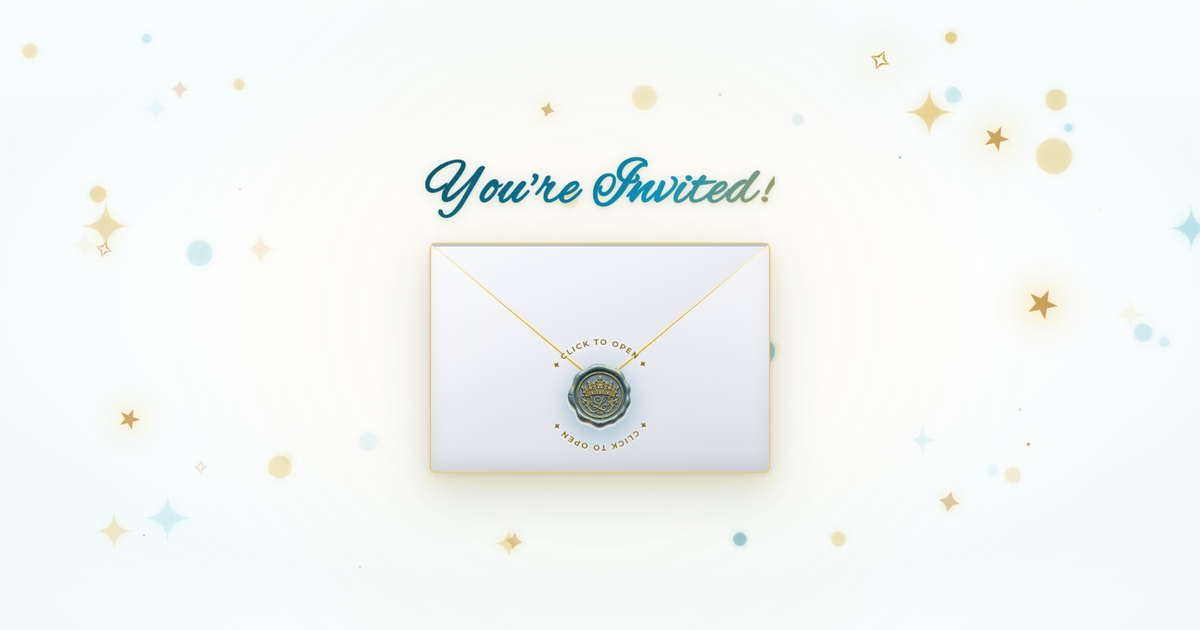
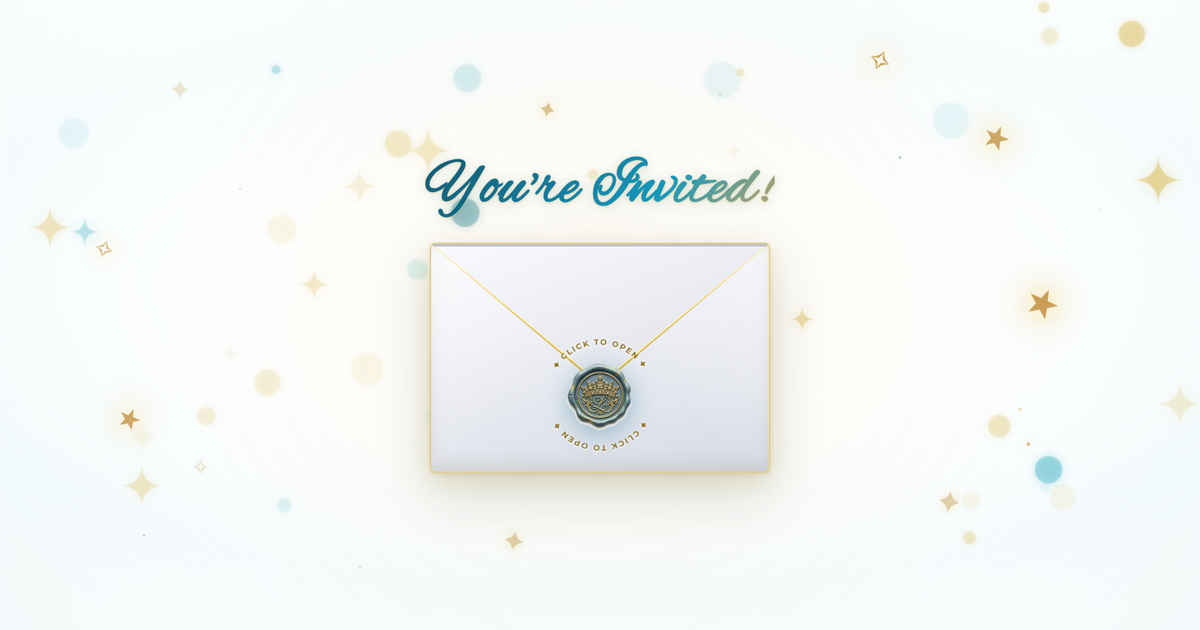
feat(alexadeharo): editorial venue restyle, safari bar tint, and confetti cleanup

diff --git a/alexadeharo/style.css b/alexadeharo/style.css
@@ -6421,3 +6421,104 @@ body.og-preview-mode .entry-lang-picker {
     font-size: 0.92rem;
   }
 }
+
+
+/* ══════════════════════════════════════════════════════════════
+   SAFARI BARS: one flat color at the page edges, no gradient behind them
+   ══════════════════════════════════════════════════════════════ */
+html,
+html.site-entered,
+html:not(.site-entered) {
+  background-color: #f1f9fb !important;
+  background-image: none !important;
+}
+
+body,
+body.site-entered,
+body:not(.site-entered) {
+  background-color: transparent !important;
+  background-image: none !important;
+}
+
+/* ══════════════════════════════════════════════════════════════
+   VENUES: EDITORIAL RESTYLE
+   ══════════════════════════════════════════════════════════════ */
+.venue-role-badge {
+  font-family: var(--font-script);
+  font-size: 1.75rem;
+  font-weight: 400;
+  letter-spacing: 0;
+  text-transform: none;
+  color: #006385;
+  line-height: 1;
+  margin-bottom: 0.35rem;
+}
+
+.venue-title {
+  font-family: var(--font-editorial-num);
+  font-size: 1.3rem;
+  font-weight: 700;
+  letter-spacing: 0.14em;
+  text-transform: uppercase;
+  line-height: 1.2;
+  color: var(--text-dark);
+  margin: 0.1rem 0 0.55rem;
+}
+
+.venue-address {
+  font-family: var(--font-editorial-num);
+  font-style: italic;
+  font-size: 1.08rem;
+  font-weight: 400;
+  letter-spacing: 0.01em;
+  text-transform: none;
+  line-height: 1.4;
+  color: #334155;
+  margin-bottom: 0.75rem;
+}
+
+/* time: pill becomes text between two gold hairlines, like the date box */
+.venue-time-tag {
+  background: none;
+  border: 0;
+  border-radius: 0;
+  border-top: 1px solid rgba(201, 159, 87, 0.75);
+  border-bottom: 1px solid rgba(201, 159, 87, 0.75);
+  padding: 0.35rem 0.5rem;
+  font-family: var(--font-editorial-num);
+  font-size: 1.05rem;
+  font-weight: 600;
+  letter-spacing: 0.06em;
+  text-transform: none;
+  color: #8c6f23;
+  margin-bottom: 0.85rem;
+}
+.venue-time-tag svg { display: none; }
+
+/* button becomes a quiet underlined link */
+.venue-elegant-map-btn {
+  background: none;
+  border: 0;
+  border-bottom: 1px solid #c99f57;
+  border-radius: 0;
+  box-shadow: none;
+  padding: 0 0 3px;
+  color: #006385 !important;
+  font-size: 0.62rem;
+  letter-spacing: 0.2em;
+}
+.venue-elegant-map-btn svg { display: none; }
+.venue-elegant-map-btn::after { content: "→"; margin-left: 0.4em; }
+.venue-elegant-map-btn:hover {
+  background: none;
+  box-shadow: none;
+  transform: none;
+  color: #8c6f23 !important;
+}
+
+@media (max-width: 480px) {
+  .venue-role-badge { font-size: 1.5rem; }
+  .venue-title { font-size: 0.98rem; letter-spacing: 0.09em; }
+  .venue-address { font-size: 0.98rem; }
+  .venue-time-tag { font-size: 0.95rem; padding: 0.3rem 0.3rem; }
+}

diff --git a/alexadeharo/index.html b/alexadeharo/index.html
@@ -4,6 +4,7 @@
 <head>
   <meta charset="UTF-8" />
   <meta name="viewport" content="width=device-width, initial-scale=1.0, viewport-fit=cover" />
+  <meta name="theme-color" content="#f1f9fb" />
   <title>Alexa S. Laco Deharo — Quinceañera</title>
   <meta name="title" content="Alexa S. Laco Deharo — Quinceañera" />
   <meta name="description"
@@ -43,7 +44,7 @@
     href="https://fonts.googleapis.com/css2?family=Alex+Brush&family=Cormorant+Garamond:ital,wght@0,400;0,500;0,600;0,700;1,400&family=Montserrat:wght@300;400;500;600;700&family=Playfair+Display:ital,wght@0,400;0,600;0,700;1,400&display=swap"
     rel="stylesheet">
 
-  <link rel="stylesheet" href="style.css?v=9.22.0" />
+  <link rel="stylesheet" href="style.css?v=9.23.0" />
 </head>
 
 <body>
@@ -530,7 +531,7 @@
         </div>
 
         <div class="venue-copy">
-          <span class="venue-role-badge" data-i18n="badge-ceremony">RELIGIOUS CEREMONY</span>
+          <span class="venue-role-badge" data-i18n="badge-ceremony">Religious Ceremony</span>
           <h3 class="venue-title">St. Serra Catholic Church</h3>
           <p class="venue-address">
             42121 60th St W<br />Lancaster, CA 93536
@@ -563,7 +564,7 @@
       <!-- 2. RECEPTION VENUE (MAP RIGHT) -->
       <div class="venue-stage venue-stage-reception scroll-fade-scale">
         <div class="venue-copy">
-          <span class="venue-role-badge" data-i18n="badge-reception">RECEPTION VENUE</span>
+          <span class="venue-role-badge" data-i18n="badge-reception">Reception Venue</span>
           <h3 class="venue-title">Rancho Vista Golf Club</h3>
           <p class="venue-address">
             3905 Club Rancho Dr<br />Palmdale, CA 93551
@@ -906,7 +907,7 @@
     <p class="footer-date" data-i18n="footer-date">Sunday, January 30, 2028</p>
   </footer>
 
-  <script src="main.js?v=9.22.0"></script>
+  <script src="main.js?v=9.23.0"></script>
 </body>
 
 </html>

diff --git a/alexadeharo/main.js b/alexadeharo/main.js
@@ -76,9 +76,9 @@ document.addEventListener('DOMContentLoaded', () => {
       'cd-secs': 'Seconds',
       'invite-venue': 'LANCASTER &amp; PALMDALE • CALIFORNIA',
       'venue-section-title': 'CEREMONY &amp; RECEPTION',
-      'badge-ceremony': 'RELIGIOUS CEREMONY',
+      'badge-ceremony': 'Religious Ceremony',
       'ceremony-time-desc': '11:30 AM – 1:00 PM',
-      'badge-reception': 'RECEPTION VENUE',
+      'badge-reception': 'Reception Venue',
       'reception-time-desc': '4:00 PM – 11:00 PM',
       'venue-btn-open-maps': 'OPEN IN MAPS',
       'program-title': 'SCHEDULE OF EVENTS',
@@ -158,9 +158,9 @@ document.addEventListener('DOMContentLoaded', () => {
       'cd-secs': 'Segundos',
       'invite-venue': 'LANCASTER Y PALMDALE • CALIFORNIA',
       'venue-section-title': 'CEREMONIA Y RECEPCIÓN',
-      'badge-ceremony': 'CEREMONIA RELIGIOSA',
+      'badge-ceremony': 'Ceremonia Religiosa',
       'ceremony-time-desc': '11:30 AM – 1:00 PM',
-      'badge-reception': 'SALÓN DE RECEPCIÓN',
+      'badge-reception': 'Salón de Recepción',
       'reception-time-desc': '4:00 PM – 11:00 PM',
       'venue-btn-open-maps': 'ABRIR EN MAPS',
       'program-title': 'PROGRAMA DEL EVENTO',
@@ -749,6 +749,13 @@ document.addEventListener('DOMContentLoaded', () => {
       window.removeEventListener('touchmove', blockScrollUntilEntered);
       window.removeEventListener('keydown', blockKeysUntilEntered);
       triggerScrollReveals();
+
+      // Stop the confetti loop and remove its full-screen canvas after the show
+      setTimeout(() => {
+        confettiPetalEngine.isRunning = false;
+        const c = document.getElementById('entry-canvas');
+        if (c) c.remove();
+      }, 9000);
     }, 1500);
 
     // 5. Final cleanup of overlay (2350ms)
